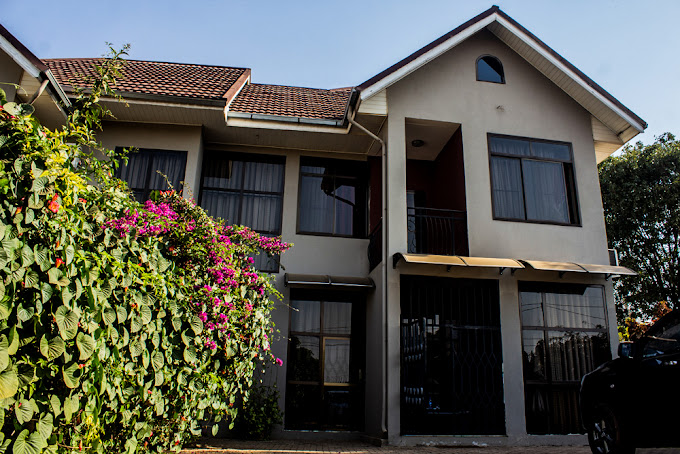
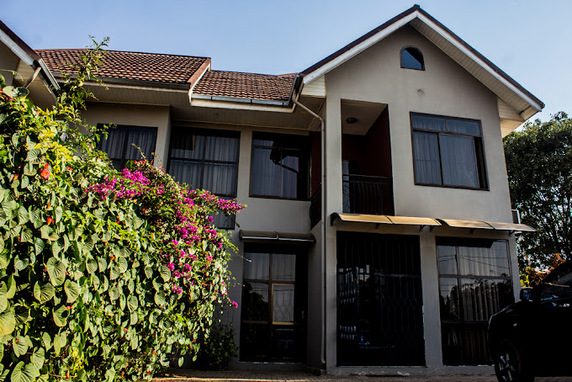
Ajustement des images

diff --git a/src/pages/Projets.js b/src/pages/Projets.js
@@ -11,11 +11,12 @@ import makomeno from "../assets/images/makomeno.jpg";
 import hotelRift from "../assets/images/hotel-rift.jpg";
 import appartementJumele from "../assets/images/Maison d'habitation kabula meshi.jpg";
 import miniVilla from "../assets/images/villa-craa.jpg";
-import universite from "../assets/images/universite-Aumonier.jpeg";
+import universite from "../assets/images/universite-Aumonier.jpg";
 import hotelRoger from "../assets/images/mr-roger-hotel.jpeg";
 import camp from "../assets/images/camp-de-travailleurs.jpeg"
 import AnimationPage from "../AnimationPage";
-
+import kabulameshiPcr from "../assets/images/kabulameshi-pcr.jpg";
+import drNoah from "../assets/images/dr-noah.jpeg"
 
 const Projets = () => {
   return (
@@ -64,17 +65,17 @@ const Projets = () => {
                 </p>
               </div>
               <div className="projet-card">
-                <img src={kifitahopital2} alt="Photo de l'hôpital Kifita" />
+                <img
+                  src={appartementJumele}
+                  alt="Photo Appartemant jumelé à Kabulameshi"
+                />
                 <p>
-                  <strong>Description du Projet : </strong>Construction d’un
-                  hôpital financé par l’Entreprise Minière MMG pour le village
-                  Kifita (Vu de l'extérieur).
+                  <strong>Description du Projet : </strong> Construction de deux
+                  appartements jumelés.
                 </p>
                 <p>
-                  <strong>Adresse :</strong>
-                  <em>
-                    Village Kifita sur la route Kinsevere à Lubumbashi en RD-Congo
-                  </em>
+                  <strong>Adresse : </strong>
+                  <em>Kabulameshi à Lubumbashi en RD-Congo</em>
                 </p>
               </div>
               <div className="projet-card">
@@ -90,17 +91,27 @@ const Projets = () => {
                 </p>
               </div>
               <div className="projet-card">
-                <img
-                  src={appartementJumele}
-                  alt="Photo Appartemant jumelé à Kabulameshi"
-                />
+                <img src={kifitahopital2} alt="Photo de l'hôpital Kifita" />
                 <p>
-                  <strong>Description du Projet : </strong> Construction de deux
-                  appartements jumelés.
+                  <strong>Description du Projet : </strong>Construction d’un
+                  hôpital financé par l’Entreprise Minière MMG pour le village
+                  Kifita (Vu de l'extérieur).
+                </p>
+                <p>
+                  <strong>Adresse :</strong>
+                  <em>
+                    Village Kifita sur la route Kinsevere à Lubumbashi en RD-Congo
+                  </em>
+                </p>
+              </div>
+              <div className="projet-card">
+                <img src={kabulameshiPcr} alt="Photo Maison Résidentielle" />
+                <p>
+                  <strong>Description du Projet : </strong> Construction d’une maison résidentielle
                 </p>
                 <p>
                   <strong>Adresse : </strong>
-                  <em>Kabulameshi à Lubumbashi en RD-Congo</em>
+                  <em>Kabulameshi Mashinga, réference bureau PCR à Lubumbashi en RD-Congo</em>
                 </p>
               </div>
               <div className="projet-card">
@@ -126,6 +137,19 @@ const Projets = () => {
                 <p>
                   <strong>Adresse : </strong>
                   <em>Au niveau de Craa à Lubumbashi en RD-Congo</em>
+                </p>
+              </div>
+              <div className="projet-card">
+                <img src={drNoah} alt="Photo d'une maison de résidence" />
+                <p>
+                  <strong>Description du Projet : </strong>Construction d’une maison
+                  résidentielle.
+                </p>
+                <p>
+                  <strong>Adresse :</strong>
+                  <em>
+                    Avenue Fifi masuka, Quartier Joli Site à Lubumbashi en RD-Congo
+                  </em>
                 </p>
               </div>
               <div className="projet-card">

diff --git a/src/components/Presentation.js b/src/components/Presentation.js
@@ -3,7 +3,7 @@ import batiment1 from "../assets/images/batiment1.jpg";
 import batiment5 from "../assets/images/station2.jpg";
 import batiment4 from "../assets/images/hotel-rift.jpg";
 import makomeno from "../assets/images/batiment4.jpg";
-import universite from "../assets/images/universite-Aumonier.jpeg"
+import universite from "../assets/images/universite-Aumonier.jpg"
 
 const Presentation = () => {
   return (
